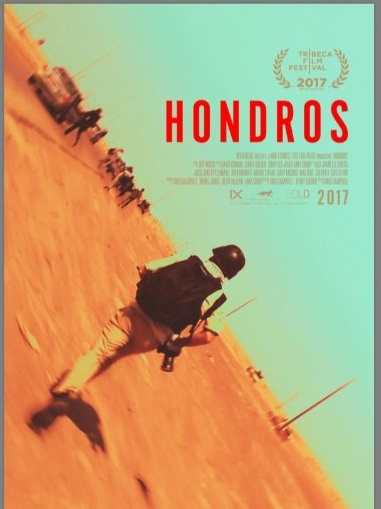
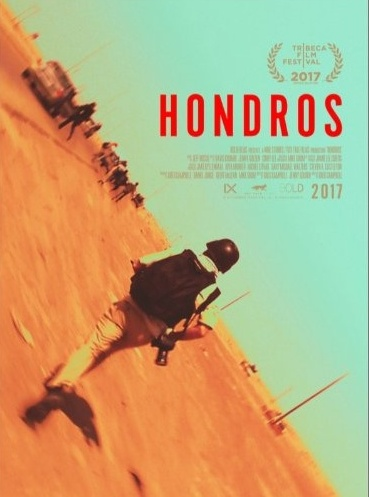
Final refresh to fix Hondros image

diff --git a/index.html b/index.html
@@ -204,7 +204,7 @@
         <div class="gc-gap"></div>
         <div class="gc-img-col">
           <div class="gc-img-wrap">
-            <img src="images/films/hondros_poster.jpeg" alt="Hondros" style="object-position: top;">
+            <img src="images/films/hondros_poster.jpeg" alt="Hondros">
           </div>
         </div>
         <div class="gc-quote-wrap right">
